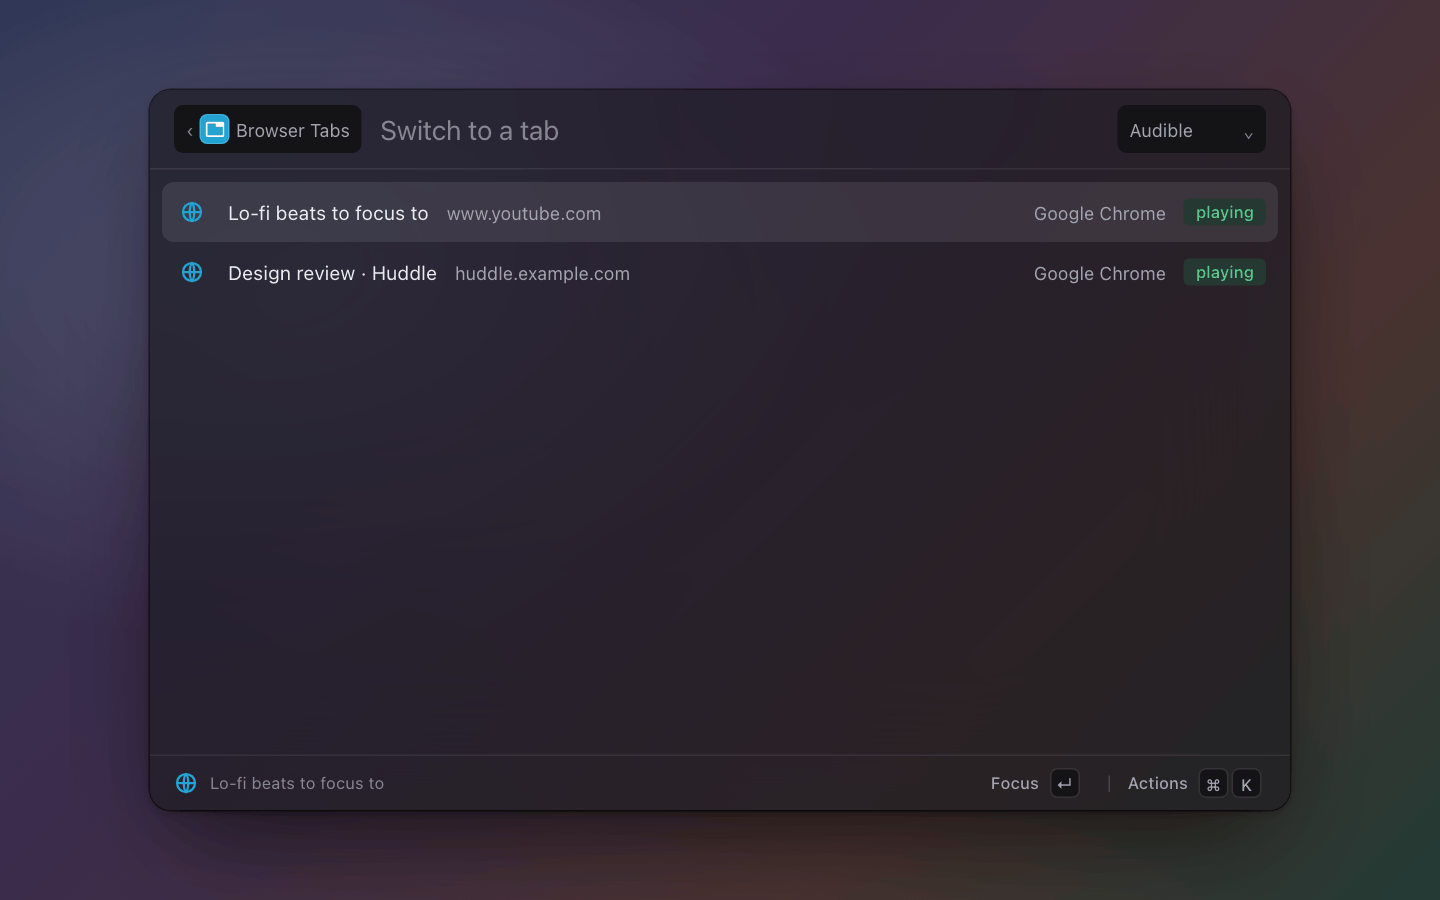
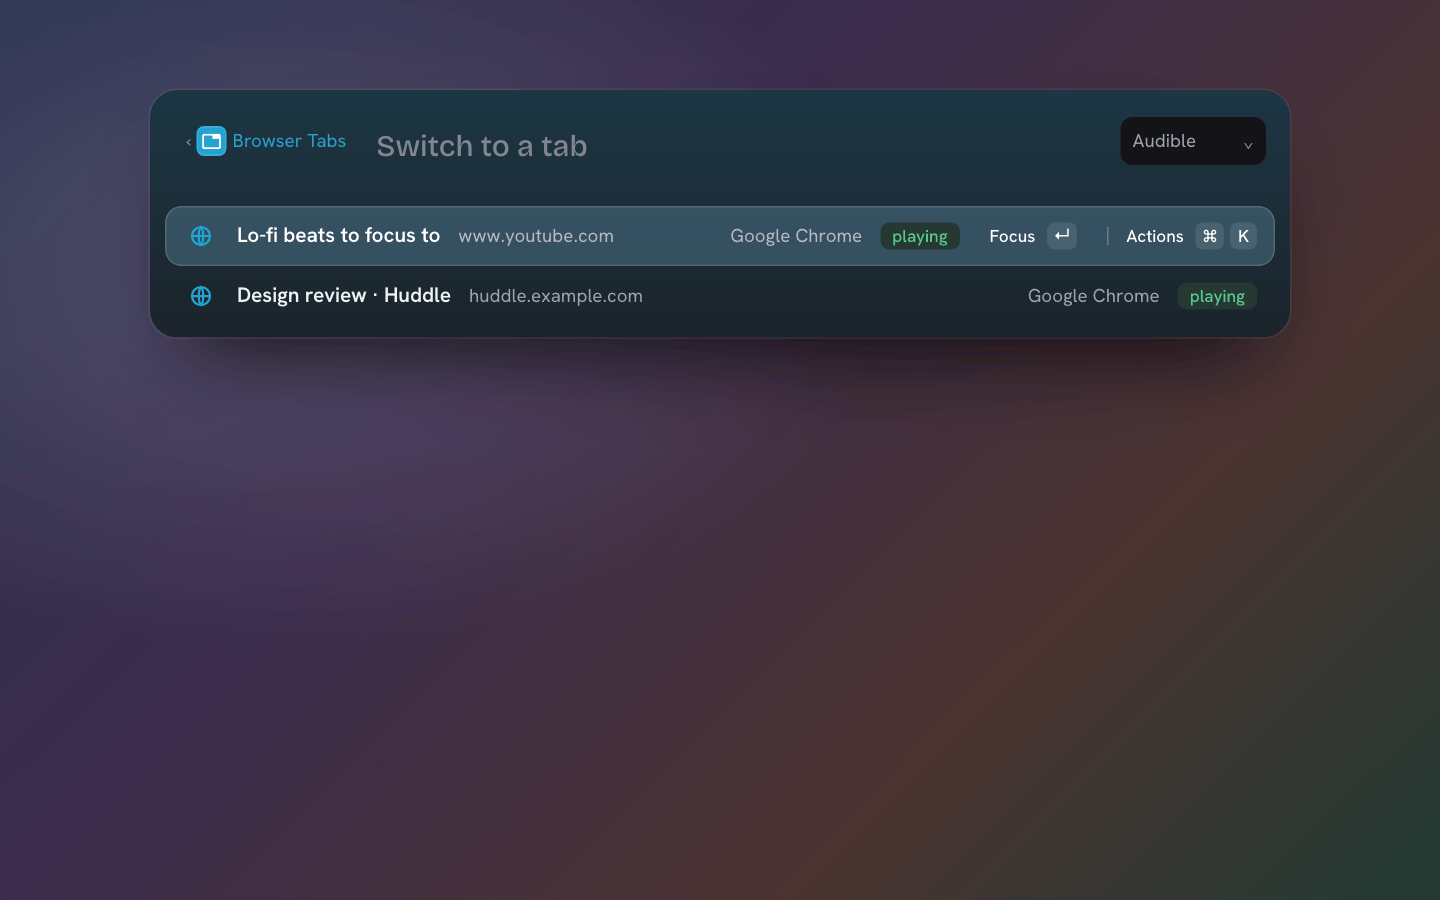
browser-tabs: where a tab is is one accessory beside its sound tag; a detail pane: browser and window over the title, sound as a chip, the address; a detail shot

diff --git a/host/test/extensions/browser-tabs.test.ts b/host/test/extensions/browser-tabs.test.ts
@@ -157,12 +157,14 @@ describe("browser-tabs", () => {
     const [yt, gh, st, radio] = items;
     expect(yt).toMatchObject({ name: "YouTube", subtitle: "www.youtube.com", url: "https://www.youtube.com/watch?v=1", keywords: ["https://www.youtube.com/watch?v=1", "www.youtube.com", "Google Chrome"] });
     expect(yt.icon).toBeUndefined();
-    expect(yt.accessories).toEqual([{ text: "Google Chrome" }, { text: "window 1" }, { tag: "playing", color: "green" }]);
-    expect(gh.accessories).toEqual([{ text: "Google Chrome" }, { text: "window 1" }]);
-    expect(st).toMatchObject({ name: "Settings", subtitle: "chrome://settings/", accessories: [{ text: "Google Chrome" }, { text: "window 2" }] });
+    expect(yt.accessories).toEqual([{ text: "Google Chrome · window 1" }, { tag: "playing", color: "green" }]);
+    expect(gh.accessories).toEqual([{ text: "Google Chrome · window 1" }]);
+    expect(st).toMatchObject({ name: "Settings", subtitle: "chrome://settings/", accessories: [{ text: "Google Chrome · window 2" }] });
     expect(st.url).toBeUndefined();
     expect(st.icon).toBeDefined();
-    expect(radio.accessories).toEqual([{ text: "Google Chrome" }, { text: "window 1" }, { tag: "muted" }]);
+    expect(radio.accessories).toEqual([{ text: "Google Chrome · window 1" }, { tag: "muted" }]);
+    // The details: the browser and window over the title, sound as a chip, the address.
+    expect(await host.detail("browser-tabs", "tabs", yt.id)).toEqual({ caption: "Google Chrome · window 1", title: yt.name, chips: [{ text: "playing", color: "green" }], metadata: [{ label: "Address", link: { text: yt.url!.replace(/^https?:\/\//, ""), href: yt.url! } }] });
     expect(yt.actions!.map((a) => a.id)).toEqual(["focus", "copy-url", "mute", "copy-markdown", "close", "unmute"]);
     expect(yt.actions![2].title).toBe("Mute");
     expect(radio.actions![2].title).toBe("Unmute");
@@ -175,7 +177,7 @@ describe("browser-tabs", () => {
   test("Firefox tabs from the session file after the others: the selected entry of each tab, only its window can be focused", async () => {
     const items = (await list()).filter((i) => i.id.startsWith("ff:"));
     expect(ids(items)).toEqual(["ff:1:1", "ff:1:2", "ff:2:1"]);
-    expect(items[0]).toMatchObject({ name: "MDN", subtitle: "developer.mozilla.org", url: "https://developer.mozilla.org/", accessories: [{ text: "Firefox" }, { text: "window 1" }] });
+    expect(items[0]).toMatchObject({ name: "MDN", subtitle: "developer.mozilla.org", url: "https://developer.mozilla.org/", accessories: [{ text: "Firefox · window 1" }] });
     expect(items[1]).toMatchObject({ name: "New", url: "https://new.example/" });
     expect(items[2]).toMatchObject({ name: "about:blank", subtitle: "about:blank" });
     expect(items[0].actions!.map((a) => a.title)).toEqual(["Focus window", "Copy URL", "Copy as markdown link"]);
@@ -257,8 +259,8 @@ describe.skipIf(!MAC)("browser-tabs over AppleScript", () => {
     writeFileSync(osaLog, "");
     const items = (await list()).filter((i) => i.id.startsWith("as:"));
     expect(ids(items)).toEqual(["as:Safari:1:1", "as:Safari:1:2", "as:Safari:2:1"]);
-    expect(items[0]).toMatchObject({ name: "Apple", subtitle: "www.apple.com", accessories: [{ text: "Safari" }, { text: "window 1" }] });
-    expect(items[2]).toMatchObject({ name: "example.org/page", accessories: [{ text: "Safari" }, { text: "window 2" }] });
+    expect(items[0]).toMatchObject({ name: "Apple", subtitle: "www.apple.com", accessories: [{ text: "Safari · window 1" }] });
+    expect(items[2]).toMatchObject({ name: "example.org/page", accessories: [{ text: "Safari · window 2" }] });
     expect(items[0].actions!.map((a) => a.id)).toEqual(["focus", "copy-url", "copy-markdown", "close"]);
     expect(osa()).toEqual(["list Safari"]);
   });

diff --git a/extensions/browser-tabs/index.ts b/extensions/browser-tabs/index.ts
@@ -4,7 +4,7 @@
 // browser, then the browser window comes up through the `focus` effect so
 // the panel hides first. Order is the browser's, never a ranking.
 import { existsSync } from "node:fs";
-import { failed, hint, home, settings, tabs, type Accessory, type Action, type Extension, type Item } from "@zcag/pal";
+import { failed, hint, home, settings, tabs, type Accessory, type Action, type Detail, type Extension, type Item } from "@zcag/pal";
 
 const EXT = "browser-tabs";
 const MAC = process.platform === "darwin";
@@ -32,12 +32,18 @@ const hostOf = (url: string) => { try { const u = new URL(url); return u.protoco
 const isWeb = (url: string) => /^https?:\/\//.test(url);
 const appPath = (name: string) => [`/Applications/${name}.app`, home(`~/Applications/${name}.app`)].find((p) => existsSync(p));
 
+/** Where a tab is, in one run: the browser when several are listed, its window when that browser has several. */
+const whereOf = (t: tabs.Tab, browsers: number, windowsOf: number) => [browsers > 1 ? t.browser : "", windowsOf > 1 ? `window ${t.window}` : ""].filter(Boolean).join(" · ");
+/** Whether it makes sound, as a tag. */
+const soundOf = (t: tabs.Tab): { tag: string; color?: "green" } | undefined => (t.media?.audible ? { tag: "playing", color: "green" } : t.media?.muted ? { tag: "muted" } : undefined);
+
+/** A tab's row: where it is (one accessory) and whether it plays sound (a tag), never more than the two. */
 function item(t: tabs.Tab, browsers: number, windowsOf: number): Item {
   const accessories: Accessory[] = [];
-  if (browsers > 1) accessories.push({ text: t.browser });
-  if (windowsOf > 1) accessories.push({ text: `window ${t.window}` });
-  if (t.media?.audible) accessories.push({ tag: "playing", color: "green" });
-  else if (t.media?.muted) accessories.push({ tag: "muted" });
+  const where = whereOf(t, browsers, windowsOf);
+  if (where) accessories.push({ text: where });
+  const sound = soundOf(t);
+  if (sound) accessories.push(sound);
   // Close is destructive, so it sits last (the brief) and never on cmd+enter.
   const [flip, other] = mute(!!t.media?.muted);
   const actions = t.src === "cdp" ? [FOCUS, COPY, flip!, MARKDOWN, CLOSE, other!] : t.src === "as" ? [FOCUS, COPY, MARKDOWN, CLOSE] : [{ ...FOCUS, title: "Focus window" }, COPY, MARKDOWN];
@@ -55,6 +61,19 @@ function item(t: tabs.Tab, browsers: number, windowsOf: number): Item {
 }
 
 const row = (id: string, name: string, subtitle: string, actions: Action[] = []): Item => hint(id, name, subtitle, { icon: ICON, actions });
+
+/** A tab's details: the browser and window over its title, sound as a chip, the address. */
+function detail(id: string): Detail | undefined {
+  const t = tabs.known(id);
+  if (!t) return;
+  const sound = soundOf(t);
+  return {
+    caption: `${t.browser} · window ${t.window}`,
+    title: t.title || t.url.replace(/^https?:\/\//, ""),
+    ...(sound && { chips: [{ text: sound.tag, ...(sound.color && { color: sound.color }) }] }),
+    metadata: [isWeb(t.url) ? { label: "Address", link: { text: t.url.replace(/^https?:\/\//, ""), href: t.url } } : { label: "Address", value: t.url }],
+  };
+}
 
 async function list(filter = "all"): Promise<Item[]> {
   const s = settings.get<tabs.Settings>(EXT);
@@ -86,6 +105,7 @@ export default {
       placeholder: "Switch to a tab",
       filters: FILTERS,
       list: (_query, ctx) => list(ctx?.filter),
+      detail,
       pick: async (id, action, ctx) => {
         if (id === "hint:automation") return { open: AUTOMATION_URL };
         const t = tabs.known(id);

diff --git a/docs/palettes.md b/docs/palettes.md
@@ -1821,10 +1821,12 @@ results. Three sources are merged:
 The row is the tab's title (the url without its scheme when there is
 none), the host is the subtitle, the favicon comes from the url; a tab
 without a web url (`chrome://settings`) gets the browser's icon. On the
-right: the browser's name when more than one is listed, `window N` when
-the browser has more than one window, and `playing` (green) or `muted`
-for a tab the protocol could ask. The url, the host and the browser's
-name are keywords.
+right: where it is in one run (the browser's name when more than one is
+listed, `window N` when the browser has more than one window), and
+`playing` (green) or `muted` for a tab the protocol could ask. The url,
+the host and the browser's name are keywords. The details (`⌘I`) lead
+with the browser and window over the title, sound as a chip, then the
+address.
 
 The filter dropdown scopes the list:
 

diff --git a/extensions/browser-tabs/README.md b/extensions/browser-tabs/README.md
@@ -8,10 +8,11 @@ in its browser and raises the window.
 The row is the tab's title (the url without its scheme when there is
 none), the host is the subtitle, the favicon comes from the url; a tab
 without a web url (`chrome://settings`) gets the browser's icon. On the
-right: the browser's name when more than one is listed, `window N` when
-the browser has more than one window, and `playing` (green) or `muted` for
-a tab the DevTools protocol could ask. The url, the host and the browser's
-name are keywords.
+right: where it is in one run (the browser's name when more than one is
+listed, `window N` when the browser has more than one window), and
+`playing` (green) or `muted` for a tab the DevTools protocol could ask.
+The url, the host and the browser's name are keywords. `cmd+i` shows the
+browser and window over the title, sound as a chip, and the address.
 
 ## Sources
 
